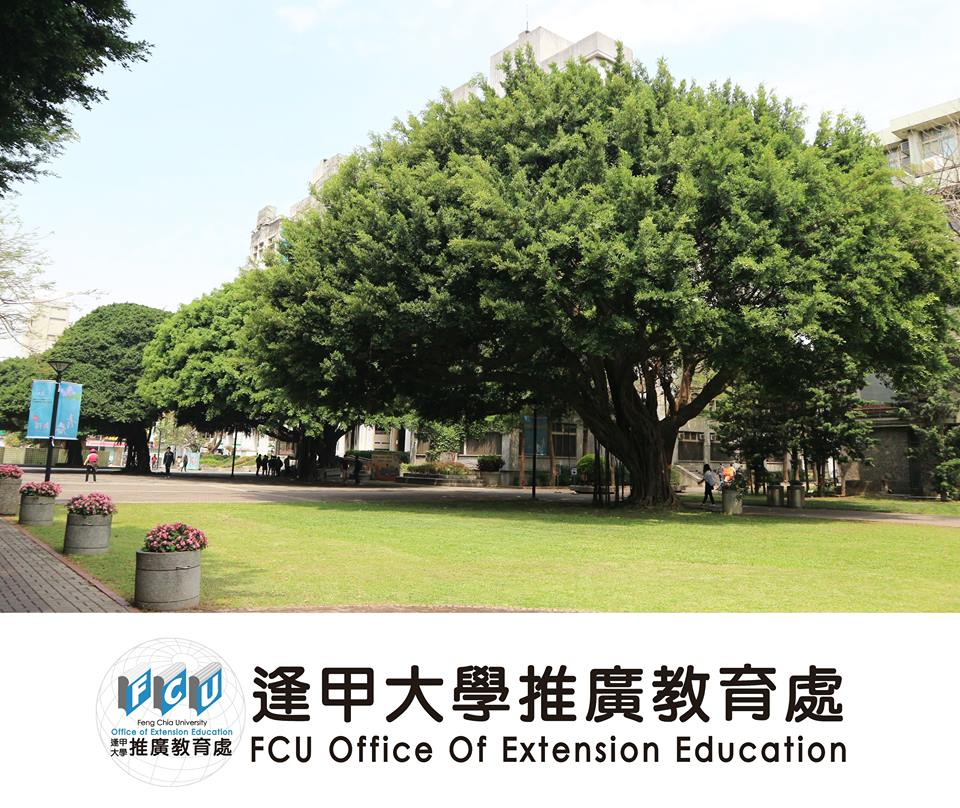
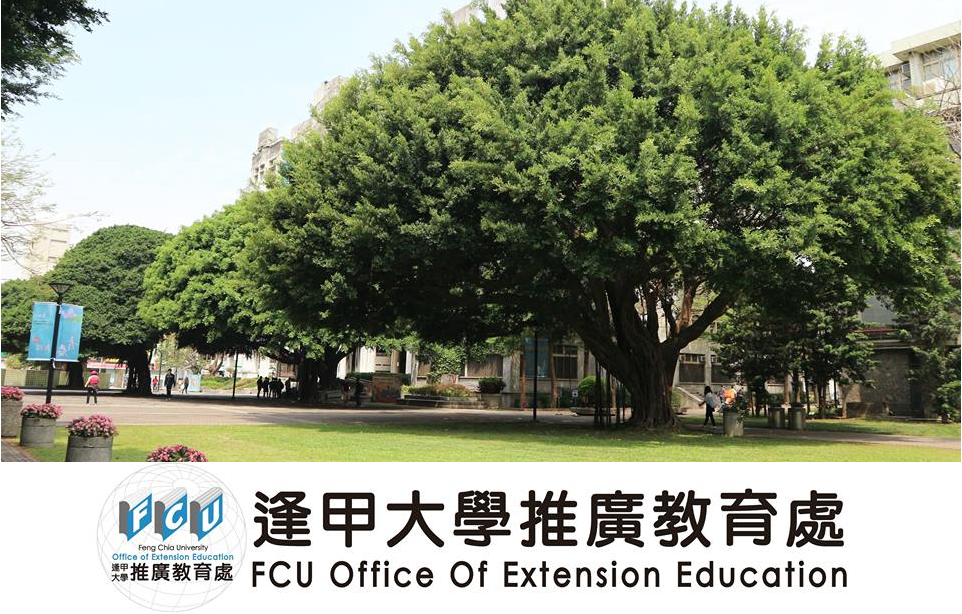
no message

diff --git a/css/index.css b/css/index.css
@@ -24,17 +24,7 @@ body {
     -webkit-touch-callout: none;                /* prevent callout to copy image, etc when tap to hold */
     -webkit-text-size-adjust: none;             /* prevent webkit from resizing text to fit */
     -webkit-user-select: none;                  /* prevent copy paste, to allow, change 'none' to 'text' */
-    background-color:#E4E4E4;
-    background-image:linear-gradient(top, #A7A7A7 0%, #E4E4E4 51%);
-    background-image:-webkit-linear-gradient(top, #A7A7A7 0%, #E4E4E4 51%);
-    background-image:-ms-linear-gradient(top, #A7A7A7 0%, #E4E4E4 51%);
-    background-image:-webkit-gradient(
-        linear,
-        left top,
-        left bottom,
-        color-stop(0, #A7A7A7),
-        color-stop(0.51, #E4E4E4)
-    );
+	background: linear-gradient(0deg, #cce6ff, white);
     background-attachment:fixed;
     font-family:'HelveticaNeue-Light', 'HelveticaNeue', Helvetica, Arial, sans-serif;
     font-size:12px;
@@ -127,7 +117,7 @@ a:hover,a:visited,a:link,a:active{
 	height: 35vh;
 	display: inline-block;
 	position: fixed;
-	background-image: url(../img/BannerIMG.jpg);
+	background: linear-gradient(to bottom, rgba(255,255,255,0), rgba(243,250,255,0.5)), url(../img/BannerIMG.jpg);
 	background-repeat: no-repeat;
 	background-size: 100% 100%;
 }
@@ -166,8 +156,8 @@ a:hover,a:visited,a:link,a:active{
 	position: relative;
 	width: 22vw;
 	height: 22vw;
-	border-radius: 50%;
-	border: 1px solid Black;
+	background-size: 100%;
+	background-repeat: no-repeat;
 }
 
 .title{

diff --git a/Home.html b/Home.html
@@ -47,33 +47,33 @@
 		<div class="header" id="MainDiv"></div>
 		<div class="banner">
 			<a href="MemberSearch.html" class="container-3col">
-				<div class="logo"></div>
+				<div class="logo" style="background-image: url(img/Member.png);"></div>
 				<div class="title">會員查詢</div>
 			</a>
 			<div class="container-3col">
-				<div class="logo"></div>
+				<div class="logo" style="background-image: url(img/Open-Course.png);"></div>
 				<div class="title">開課訊息</div>
 			</div>
 			<div class="container-3col">
-				<div class="logo"></div>
+				<div class="logo" style="background-image: url(img/Offer.png);"></div>
 				<div class="title">活動促銷</div>
 			</div>
 			<p></p>
 			<div class="container-3col">
-				<div class="logo"></div>
+				<div class="logo" style="background-image: url(img/News.png);"></div>
 				<div class="title">最新消息</div>
 			</div>
 			<div class="container-3col">
-				<div class="logo"></div>
+				<div class="logo" style="background-image: url(img/Course-Outline.png);"></div>
 				<div class="title">課表綱要</div>
 			</div>
 			<div class="container-3col">
-				<div class="logo"></div>
+				<div class="logo" style="background-image: url(img/Message.png);"></div>
 				<div class="title">訊息公告</div>
 			</div>
 			<p></p>
 			<a href="Website.html" class="container-3col">
-				<div class="logo"></div>
+				<div class="logo" style="background-image: url(img/logo.png)"></div>
 				<div class="title">學校首頁</div>
 			</a>
 		</div>
